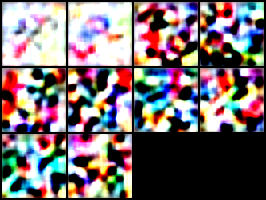
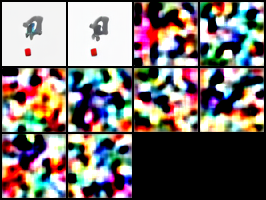
added validation steps

diff --git a/src/trainer_dit_seq_act_frames.py b/src/trainer_dit_seq_act_frames.py
@@ -63,6 +63,7 @@ class DiTTrainerActFrames(TrainerBase):
         self.image_size = self.config["trainer"]["image_size"]
         self.n_epochs = self.config["trainer"]["n_epochs"]
         self.data_path = os.path.join(base, self.config["trainer"]["data_path"])
+        self.val_data_path = os.path.join(base, self.config["trainer"]["val_data_path"])
         self.cuda_num = self.config["trainer"]["cuda_num"]
 
         self.__setup__DDP(self.config["distributed"])
@@ -117,6 +118,11 @@ class DiTTrainerActFrames(TrainerBase):
         self.dataset = RobotDatasetSeqTrj(
             data_path=self.data_path, transform=transform, seq_l=model_config["seq_len"]
         )
+        val_dataset = RobotDatasetSeqTrj(
+            data_path=self.val_data_path,
+            transform=transform,
+            seq_l=model_config["seq_len"],
+        )
         sampler = DistributedSampler(
             self.dataset,
             num_replicas=dist.get_world_size(),
@@ -137,7 +143,7 @@ class DiTTrainerActFrames(TrainerBase):
         )
 
         self.val_loader = (
-            DataLoader(val_dataset, batch_size=32, shuffle=False)
+            DataLoader(val_dataset, batch_size=1, shuffle=False)
             if val_dataset
             else None
         )
@@ -192,7 +198,7 @@ class DiTTrainerActFrames(TrainerBase):
         for epoch in range(self.n_epochs):
             train_loss = self._train_one_epoch(step)
             if step % self.config["trainer"]["val_num"] == 0:
-                val_loss = self._validate_one_epoch() if self.val_loader else None
+                val_loss = self._validate_one_epoch(step) if self.val_loader else None
             print(
                 f"Epoch {epoch+1}/{self.n_epochs}, Training Loss: {train_loss:.4f}",
                 end="",
@@ -253,18 +259,18 @@ class DiTTrainerActFrames(TrainerBase):
             update_ema(self.ema, self.model_ddp.module)
             running_loss += total_loss.item()
 
-            if step % self.config["trainer"]["val_num"] == 0:
-                self.save_image_actions(
-                    step=step,
-                    x=x,
-                    next_seq=next_seq,
-                    actions_real=action,
-                    goal_img=goal_img,
-                )
+            # if step % self.config["trainer"]["val_num"] == 0:
+            #     self.save_image_actions(
+            #         step=step,
+            #         x=x,
+            #         next_seq=next_seq,
+            #         actions_real=action,
+            #         goal_img=goal_img,
+            #     )
 
         return running_loss
 
-    def _validate_one_epoch(self):
+    def _validate_one_epoch(self, step):
         self.model_ddp.eval()
         running_loss = 0.0
         with torch.no_grad():
@@ -274,6 +280,7 @@ class DiTTrainerActFrames(TrainerBase):
                     next_seq.to(self.device, dtype=torch.float32),
                     action.to(self.device, dtype=torch.float32),
                 )
+
                 b, _, _, _, _ = next_seq.shape
                 x = rearrange(next_seq, "b f c h w -> (b f) c h w").contiguous()
                 x = self.vae.encode(x).latent_dist.sample().mul_(0.18215)
@@ -283,27 +290,15 @@ class DiTTrainerActFrames(TrainerBase):
                     .latent_dist.sample()
                     .mul_(0.18215)
                 )
-                model_kwargs = dict(a=action, mask_frame_num=2, img_c=goal_img)
-                z = torch.randn_like(
-                    x,
-                    device=self.device,
+
+                self.save_image_actions(
+                    step=step,
+                    x=x,
+                    next_seq=next_seq,
+                    actions_real=action,
+                    goal_img=goal_img,
                 )
-                z[:, : self.mask_num, :, :] = x[:, : self.mask_num, :, :]
-                samples, actions_pred = self.diffusion_s.p_sample_loop(
-                    self.ema,
-                    z.shape,
-                    z,
-                    clip_denoised=False,
-                    progress=True,
-                    model_kwargs=model_kwargs,
-                    device=self.device,
-                )
-                samples = rearrange(samples, "b f c h w -> (b f) c h w").contiguous()
-                samples = self.vae.decode(samples / 0.18215).sample
-                samples = rearrange(
-                    samples, "(b f) c h w -> b f c h w", b=b
-                ).contiguous()
-                batchsize = np.random.choice(b)
+
         return running_loss / len(self.val_loader.dataset)
 
     def _save_checkpoint(self):

diff --git a/src/models/difussion_utils/gaussian_diffusion_seq.py b/src/models/difussion_utils/gaussian_diffusion_seq.py
@@ -1067,6 +1067,9 @@ class GaussianDiffusionSeqAct(GaussianDiffusionSeq):
         #     out["act_mean"]
         #     + nonzero_mask_act * torch.exp(0.5 * out["act_log_variance"]) * noise_act
         # )
+        sample[:, : model_kwargs["mask_frame_num"], :, :, :] = x[
+            :, : model_kwargs["mask_frame_num"], :, :, :
+        ]
         return {
             "sample": sample,
             "pred_xstart": out["pred_xstart"],
